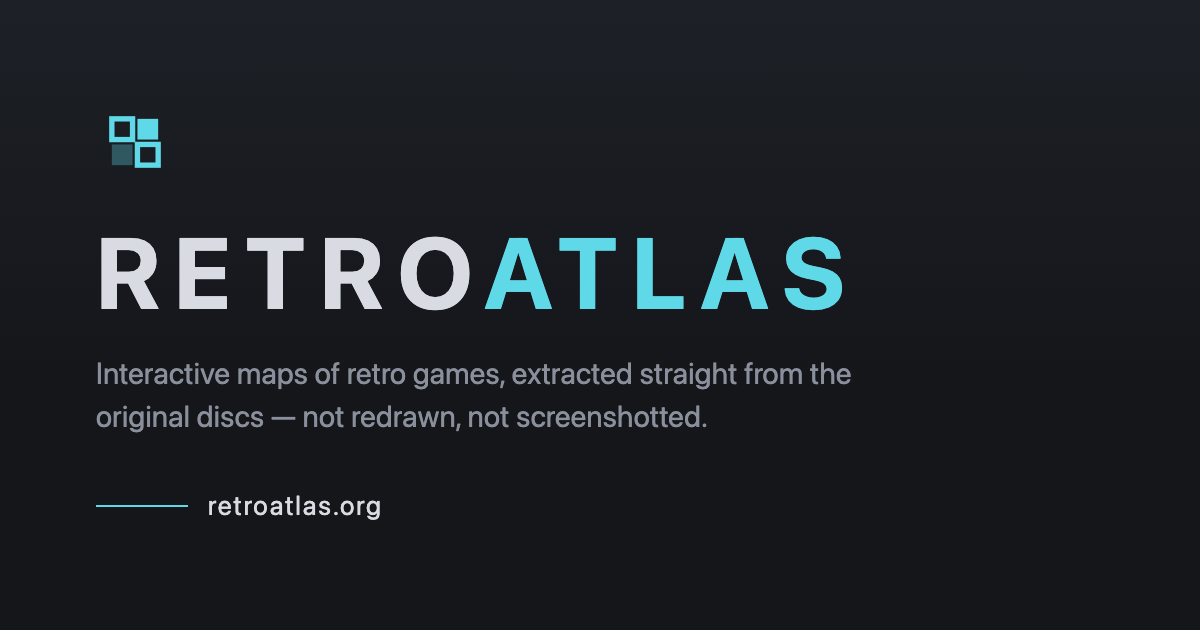
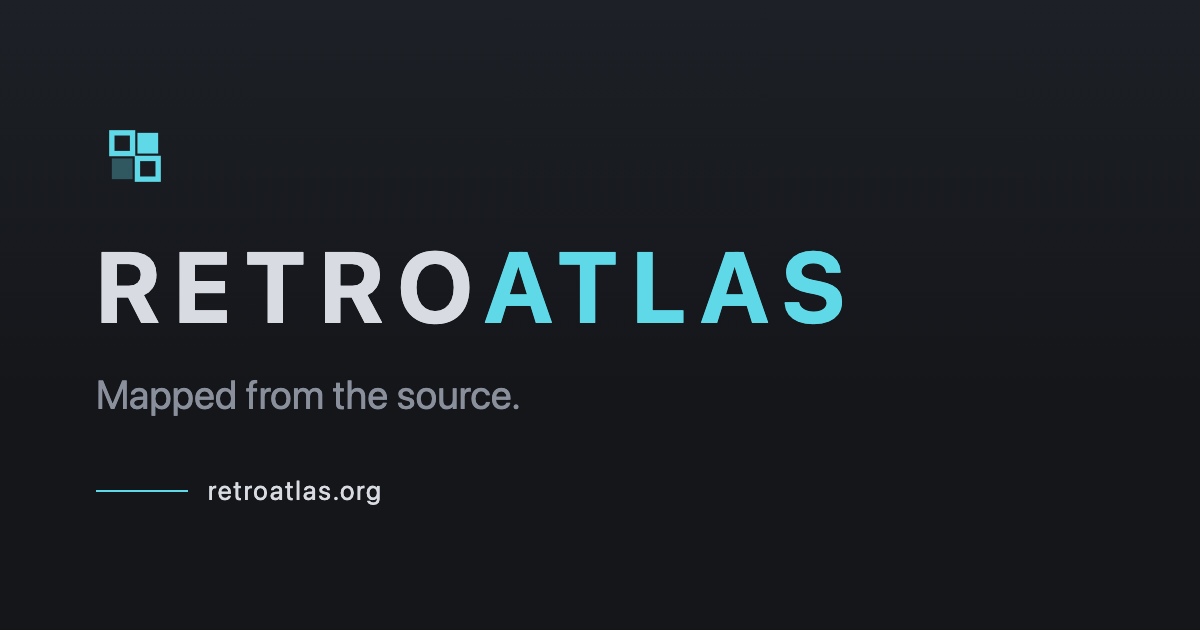
Put the motto on the card instead of the description
The card image and the og:description carried the same sentence, so the
image spent its whole area repeating text the scraper already renders
underneath it.

Give the image the motto and leave the long form to the description:
one asserts, the other explains. The alt text follows the image rather
than the description for the same reason.

diff --git a/tools/og.html b/tools/og.html
@@ -55,10 +55,9 @@
       }
 
       p {
-        max-width: 800px;
         margin: 30px 0 0;
         color: var(--dim);
-        font-size: 30px;
+        font-size: 40px;
         line-height: 1.45;
       }
 
@@ -93,7 +92,7 @@
     </svg>
 
     <h1>RETRO<span>ATLAS</span></h1>
-    <p>Interactive maps of retro games, extracted straight from the original discs — not redrawn, not screenshotted.</p>
+    <p>Mapped from the source.</p>
     <div class="foot"><i></i><span>retroatlas.org</span></div>
   </body>
 </html>

diff --git a/public/index.html b/public/index.html
@@ -26,7 +26,7 @@
     <meta property="og:image:height" content="630" />
     <meta
       property="og:image:alt"
-      content="RetroAtlas — interactive maps of retro games, extracted straight from the original discs."
+      content="The RetroAtlas wordmark over the words: mapped from the source."
     />
     <meta name="twitter:card" content="summary_large_image" />
 
